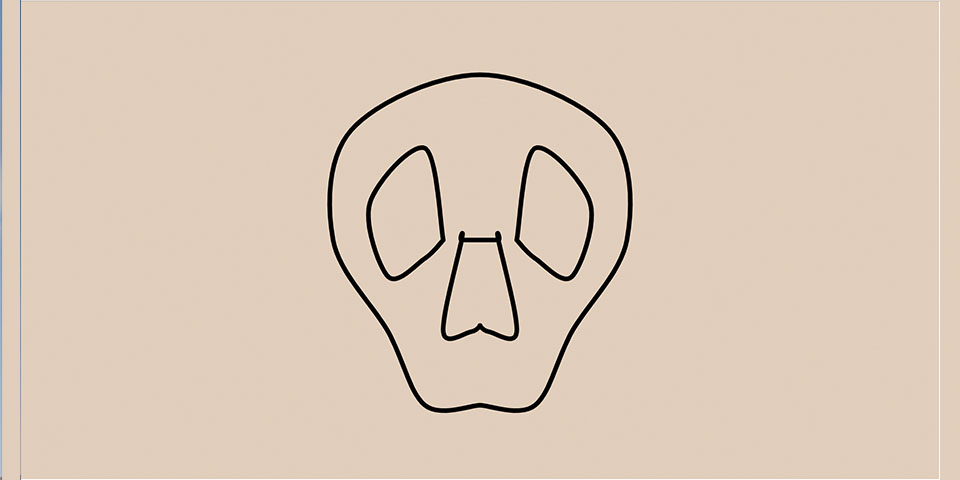
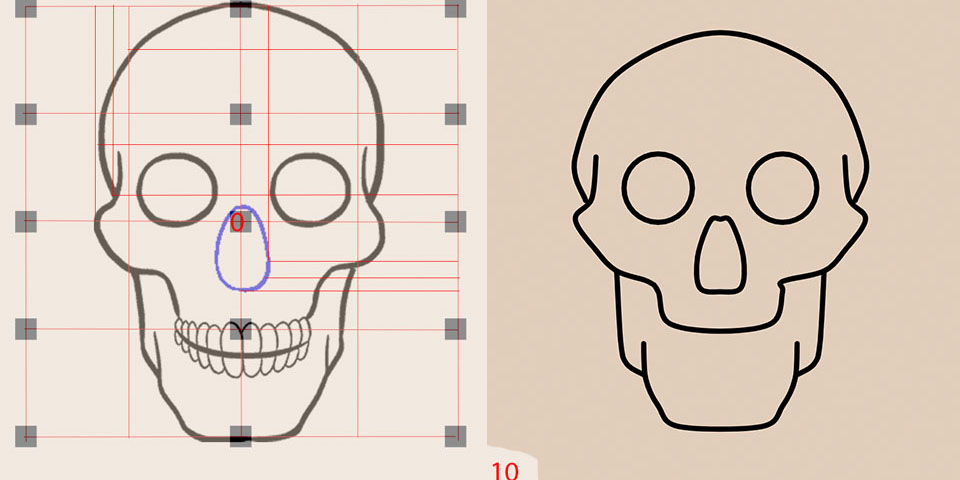
update code and pictures

diff --git a/face_code.js b/face_code.js
@@ -13,63 +13,167 @@ function drawFace1() {
 noFill();
 strokeWeight(0.25);
 stroke(2);
+//top of head
 beginShape();
-//leftSide
-curveVertex(0, 9);
-curveVertex(0, 9);
-curveVertex(-3, 9);
-curveVertex(-5, 5);
-curveVertex(-8, 0);
-curveVertex(-7, -6);
-curveVertex(0,-9);
-//rightSide
-curveVertex(7, -6);
-curveVertex(8, 0);
-curveVertex(5, 5);
-curveVertex(3, 9);
-curveVertex(0, 9);
-curveVertex(0,9)
+curveVertex(-6.5,-1.9);
+curveVertex(-6.5,-1.9);
+curveVertex(-7,-4);
+curveVertex(-5,-8);
+curveVertex(0,-10);
+curveVertex(5,-8);
+curveVertex(7,-4);
+curveVertex(6.5,-1.9);
+curveVertex(6.5,-1.9);
 endShape();
-
+//faceFront
+beginShape();
+//left
+curveVertex(-6,-4);
+curveVertex(-6,-4);
+curveVertex(-6.2,-2);
+curveVertex(-7,-1);
+curveVertex(-6,0.5);
+curveVertex(-5,1.5);
+curveVertex(-3.5,2);
+curveVertex(-3,2.5);
+curveVertex(-2.5,4);
+curveVertex(0,4.4);
+//right
+curveVertex(2.5,4);
+curveVertex(3,2.5);
+curveVertex(3,2);
+curveVertex(5,1.5);
+curveVertex(6,0.5);
+curveVertex(7,-1);
+curveVertex(6.2,-2);
+curveVertex(6,-4);
+curveVertex(6,-4);
+endShape();
+//eyeLeft
+// beginShape();
+// curveVertex(-4,-3);
+// curveVertex(-4,-3);
+// curveVertex(-3.5,-3);
+// curveVertex(-3,-3);
+// curveVertex(-2.5,-3);
+// curveVertex(-2,-2.6);
+// curveVertex(-2.1,-1);
+// curveVertex(-2.5,-1.1);
+// curveVertex(-3,-1.2);
+// curveVertex(-3.5,-1.3);
+// curveVertex(-4,-2.8);
+// curveVertex(-4,-3);
+// endShape();
+ellipse(-3,-2.5,3.3);
+ellipse(3,-2.5,3.3);
 //nose
 beginShape();
-curveVertex(0,0);
-curveVertex(0,0);
-curveVertex(-1,0);
-curveVertex(-1,0);
-curveVertex(-2,5);
-curveVertex(-0.5,5);
-curveVertex(0,4.7);
-curveVertex(0,4.7);
-curveVertex(0.5,5);
-curveVertex(2,5);
-curveVertex(1,0);
-curveVertex(1,0);
-curveVertex(0,0);
-curveVertex(0,0);
+curveVertex(0,-1);
+curveVertex(0,-1);
+curveVertex(0.5,-0.9);
+curveVertex(1.1,0.8);
+curveVertex(1,2.3);
+curveVertex(0,2.5);
+//left
+curveVertex(-1,2.3);
+curveVertex(-1.1,0.8);
+curveVertex(-0.5,-0.9);
+curveVertex(0,-1);
+curveVertex(0,-1);
 endShape();
-//leftEye
+//jawBaseLeft
 beginShape();
-curveVertex(-2,0);
-curveVertex(-2,0);
-curveVertex(-3,1);
-curveVertex(-5,2);
-curveVertex(-6,-2);
-curveVertex(-3,-5);
-curveVertex(-2,0);
-curveVertex(-2,0);
+curveVertex(-5,1.5);
+curveVertex(-5,1.5);
+curveVertex(-4.8,5);
+curveVertex(-4.5,6);
+curveVertex(-3.7,6.5);
+curveVertex(-3.7,6.5);
 endShape();
-//rightEye
+//jawBaseRight
 beginShape();
-curveVertex(2,0);
-curveVertex(2,0);
-curveVertex(3,1);
-curveVertex(5,2);
-curveVertex(6,-2);
-curveVertex(3,-5);
-curveVertex(2,0);
-curveVertex(2,0);
+curveVertex(5,1.5);
+curveVertex(5,1.5);
+curveVertex(4.8,5);
+curveVertex(4.5,6);
+curveVertex(3.7,6.5);
+curveVertex(3.7,6.5);
 endShape();
+//frontjaw
+beginShape();
+curveVertex(-3.7,5);
+curveVertex(-3.7,5);
+curveVertex(-3.6,6.7);
+// curveVertex(-3.3,6.7);
+curveVertex(-3,8);
+curveVertex(-2,9);
+curveVertex(2,9);
+curveVertex(3,8);
+curveVertex(3.6,6.7);
+curveVertex(3.7,5);
+curveVertex(3.7,5);
+endShape();
+
+
+
+// beginShape();
+// //leftSide
+// curveVertex(0, 9);
+// curveVertex(0, 9);
+// curveVertex(-3, 9);
+// curveVertex(-5, 5);
+// curveVertex(-8, 0);
+// curveVertex(-7, -6);
+// curveVertex(0,-9);
+// //rightSide
+// curveVertex(7, -6);
+// curveVertex(8, 0);
+// curveVertex(5, 5);
+// curveVertex(3, 9);
+// curveVertex(0, 9);
+// curveVertex(0,9)
+// endShape();
+//nose
+// beginShape();
+// curveVertex(0,0);
+// curveVertex(0,0);
+// curveVertex(-1,0);
+// curveVertex(-1,0);
+// curveVertex(-2,5);
+// curveVertex(-0.5,5);
+// curveVertex(0,4.7);
+// curveVertex(0,4.7);
+// curveVertex(0.5,5);
+// curveVertex(2,5);
+// curveVertex(1,0);
+// curveVertex(1,0);
+// curveVertex(0,0);
+// curveVertex(0,0);
+// endShape();
+// //leftEye
+// beginShape();
+// curveVertex(-2,0);
+// curveVertex(-2,0);
+// curveVertex(-3,1);
+// curveVertex(-5,2);
+// curveVertex(-6,-2);
+// curveVertex(-3,-5);
+// curveVertex(-2,0);
+// curveVertex(-2,0);
+// endShape();
+// //rightEye
+// beginShape();
+// curveVertex(2,0);
+// curveVertex(2,0);
+// curveVertex(3,1);
+// curveVertex(5,2);
+// curveVertex(6,-2);
+// curveVertex(3,-5);
+// curveVertex(2,0);
+// curveVertex(2,0);
+// endShape();
+//jaw
+
 }
 
 /*

diff --git a/README.md b/README.md
@@ -1,4 +1,15 @@
 ## PS2 MDDN 342 2019
+update 
+Redone the draw face to be more complete and better scale/looking nicer.
+I used a sketch and photoshop to map the correct scale still need to do alot of polishing up on the human skull outline. will need to draw teeth to make the skull look right.
+
+
+
+
+
+
+-------------------------------------------------------------------------------------
+plan
 
 Human and Ram skulls
 
